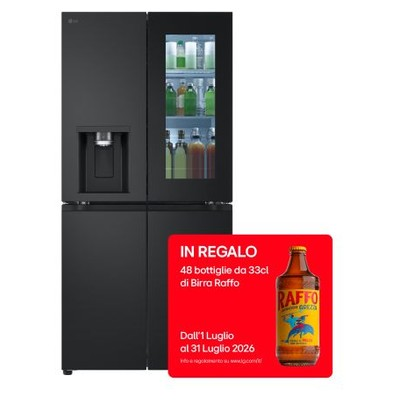
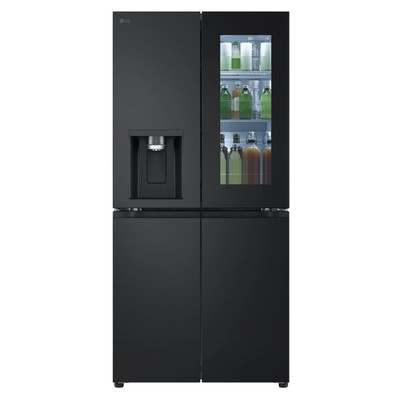
Fix foto LG InstaView senza promo birra Raffo, cap larghezza loghi
- GMG860EPBE, GMG960EVEE, GMG960MBEE: foto pulite dalla gallery LG ufficiale
- Aggiunto max-width: 100px ai loghi per evitare Samsung/Sharp/GRF troppo grandi

diff --git a/index.html b/index.html
@@ -15,7 +15,7 @@
         .promo-banner h2 { font-family: 'Montserrat', sans-serif; font-size: 28px; font-weight: 800; color: #fff; text-transform: uppercase; letter-spacing: 3px; }
         .promo-banner .sub { font-size: 13px; color: rgba(255,255,255,0.9); margin-top: 4px; letter-spacing: 1px; }
         .brand-separator { background: #1a252e; padding: 12px 40px; margin-top: 6px; display: flex; align-items: center; gap: 16px; }
-        .brand-separator img { height: 22px; object-fit: contain; }
+        .brand-separator img { height: 22px; max-width: 100px; object-fit: contain; }
         .brand-separator span { font-family: 'Montserrat', sans-serif; font-size: 14px; font-weight: 800; color: #fff; text-transform: uppercase; letter-spacing: 4px; }
         .category-separator { background: #2c3a45; padding: 10px 40px; }
         .category-separator span { font-family: 'Montserrat', sans-serif; font-size: 11px; font-weight: 800; color: rgba(255,255,255,0.85); text-transform: uppercase; letter-spacing: 4px; }